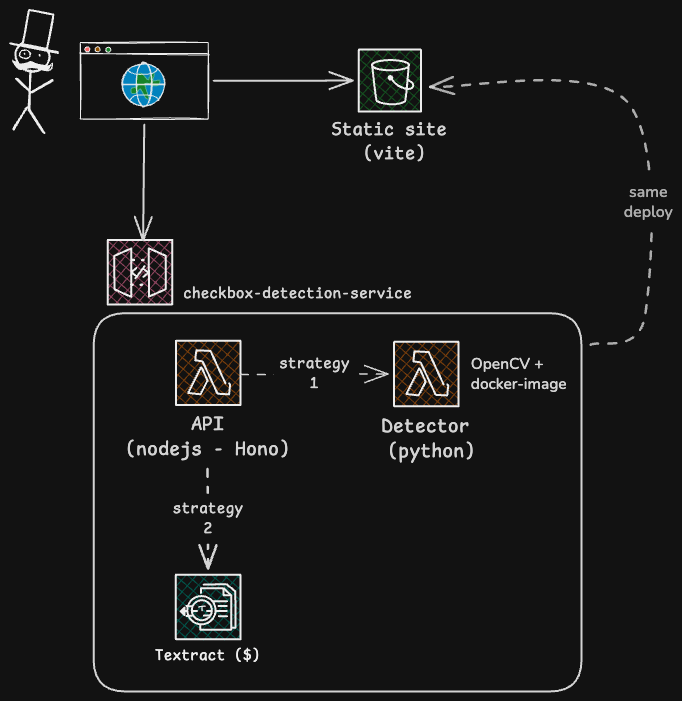
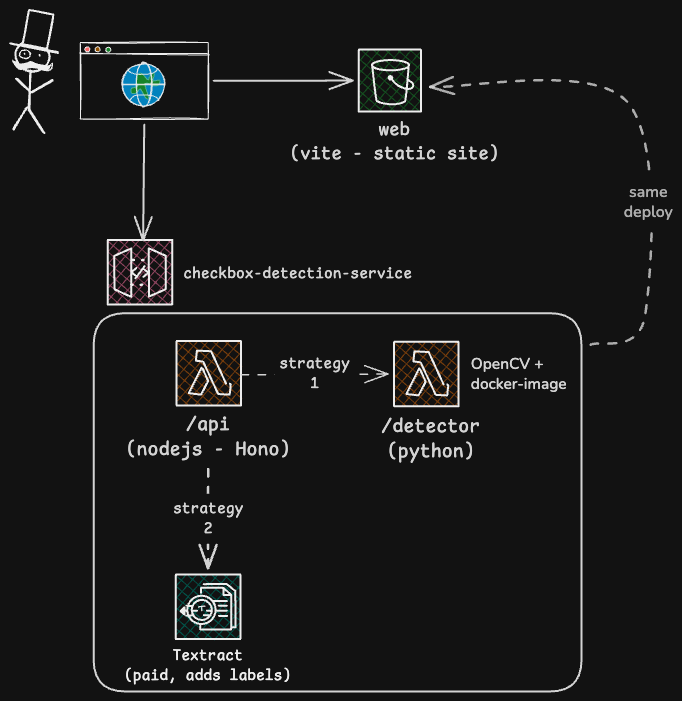
feat(infra): serve the frontend over https via cloudfront
Private S3 bucket behind a CloudFront distribution (Origin Access Control,
redirect-to-https, the free cloudfront.net cert); the bucket is private and
reached only through the distribution. deploy.mjs invalidates the distribution
after each sync. Custom domain still deferred. Refreshes the architecture
diagram.

diff --git a/README.md b/README.md
@@ -2,7 +2,7 @@
 
 Detects and classifies checkboxes (filled or unfilled) in scanned document images. Built as a take-home technical challenge.
 
-Live demo: http://checkbox-detection-service.s3-website-us-east-1.amazonaws.com
+Live demo: https://d2bz9c0bd04oia.cloudfront.net
 
 ## Project structure
 
@@ -16,7 +16,7 @@ docs/
   adr/        Architecture decision records
   challenge/  Original brief + sample images
 scripts/      Dev, deploy and detection-preview helpers (plain Node/Python, no deps)
-serverless.yml  Serverless Framework config (both Lambda functions, HTTP API, frontend S3 bucket)
+serverless.yml  Serverless Framework config (both Lambda functions, HTTP API, frontend S3 bucket + CloudFront)
 ```
 
 ![Architecture overview](docs/images/architecture-excalidraw.png)
@@ -103,18 +103,21 @@ yarn deploy
 `scripts/deploy.mjs` runs the whole thing:
 
 1. builds the API bundle and runs `serverless deploy` - the Node API (zip), the
-   Python detector (container image) and the frontend's S3 bucket, one
-   CloudFormation stack;
+   Python detector (container image), and the frontend's S3 bucket + CloudFront
+   distribution, one CloudFormation stack;
 2. reads the stack outputs, builds `apps/web` with `VITE_API_URL` pointed at the
-   deployed API, and `aws s3 sync`s it to the bucket;
+   deployed API, `aws s3 sync`s it to the bucket, and invalidates the CloudFront
+   cache;
 3. prints the live frontend URL.
 
 Needs Docker running (for the detector image) and AWS credentials - `aws sso login
 --profile personal`, or set `AWS_PROFILE`. See
 `docs/adr/0001-initial-architecture-decisions.md`.
 
-The frontend is a plain S3 static website (HTTP). Fronting it with CloudFront for
-HTTPS and a custom domain is a deliberate TODO, not done here.
+The frontend is a private S3 bucket behind CloudFront (HTTPS, `*.cloudfront.net`).
+A custom domain would add an ACM certificate in us-east-1 and an `Aliases` entry;
+deliberately not done here. The first deploy of the distribution takes 5-15
+minutes to propagate.
 
 Each deploy builds and pushes a new detector image. I set a lifecycle rule on the
 ECR repo (kept out of `serverless.yml`) to keep only the last 3. `yarn deploy`
@@ -158,8 +161,8 @@ Textract ties to a form field.
 | HTTP exposure | API Gateway HTTP API (`httpApi`) | `serverless-offline` emulates it natively; Function URLs it does not. [ADR-0001](docs/adr/0001-initial-architecture-decisions.md) |
 | Frontend | React + Vite + Tailwind, hand-rolled components | A component library adds deps to replace ~120 lines of markup. [ADR-0003](docs/adr/0003-frontend-component-approach.md) |
 | Bounding boxes | Hand-drawn SVG overlay | Read-only display needs no annotation library. [ADR-0003](docs/adr/0003-frontend-component-approach.md) |
-| Hosting | S3 static website, same account as the API | No second hosting provider, no Lambda cost for static assets. [ADR-0001](docs/adr/0001-initial-architecture-decisions.md) |
-| IaC | Serverless Framework v3, one `serverless.yml` | v4 needs a paid seat; three resources do not justify CDK. [ADR-0001](docs/adr/0001-initial-architecture-decisions.md) |
+| Hosting | Private S3 bucket behind CloudFront, same account as the API | HTTPS, no second hosting provider, no Lambda cost for static assets. [ADR-0001](docs/adr/0001-initial-architecture-decisions.md) |
+| IaC | Serverless Framework v3, one `serverless.yml` | v4 needs a paid seat; a handful of resources do not justify CDK. [ADR-0001](docs/adr/0001-initial-architecture-decisions.md) |
 
 ## Approach, trade-offs and limitations
 
@@ -175,7 +178,8 @@ The main known limitations:
 - Radio buttons (circles) are not detected. The `opencv` strategy returns no field
   labels; `textract` labels most boxes but misses the ones it only sees as bare
   table cells.
-- The frontend is served over plain HTTP; HTTPS via CloudFront is a deliberate TODO.
+- The frontend is HTTPS on a `*.cloudfront.net` domain; a custom domain (ACM cert +
+  `Aliases`) is deliberately not set up.
 - Detection runs synchronously behind API Gateway (29s cap, one image per request);
   real volume would need the async pattern described in the write-up.
 

diff --git a/docs/adr/0001-initial-architecture-decisions.md b/docs/adr/0001-initial-architecture-decisions.md
@@ -41,7 +41,9 @@ Original reasoning, still accurate for a project that actually needs to run this
 
 ### 5. Everything in one AWS account, no separate frontend host
 
-The frontend build sits in an S3 bucket, deployed from the same account and the same `serverless.yml` as the backend, not on something like Vercel. I considered serving the static frontend straight from the API's own Lambda (Hono can do this), but that's a known anti-pattern: paying for a Lambda invocation on every image or CSS request that doesn't need any logic behind it. Keeping the static assets in S3 avoids that without introducing a second hosting provider to manage. The cost of this is that a plain S3 website endpoint is HTTP only, not HTTPS, unless I put CloudFront in front of it, which I'm deliberately leaving for later, flagged as a TODO in the code rather than something I'm solving now.
+The frontend build sits in an S3 bucket, deployed from the same account and the same `serverless.yml` as the backend, not on something like Vercel. I considered serving the static frontend straight from the API's own Lambda (Hono can do this), but that's a known anti-pattern: paying for a Lambda invocation on every image or CSS request that doesn't need any logic behind it. Keeping the static assets in S3 avoids that without introducing a second hosting provider to manage.
+
+**Update:** the bucket started as a public S3 website endpoint, which is HTTP only. It is now a private bucket behind a CloudFront distribution (Origin Access Control, `redirect-to-https`, the free `*.cloudfront.net` certificate), so the site is HTTPS and the bucket is no longer world-readable. CloudFront's own free tier covers a demo's traffic. A custom domain would add an ACM certificate in us-east-1 and an `Aliases` entry on the distribution; still deferred, since the `*.cloudfront.net` URL is already valid HTTPS.
 
 ### 6. Yarn workspaces, no Turborepo
 
